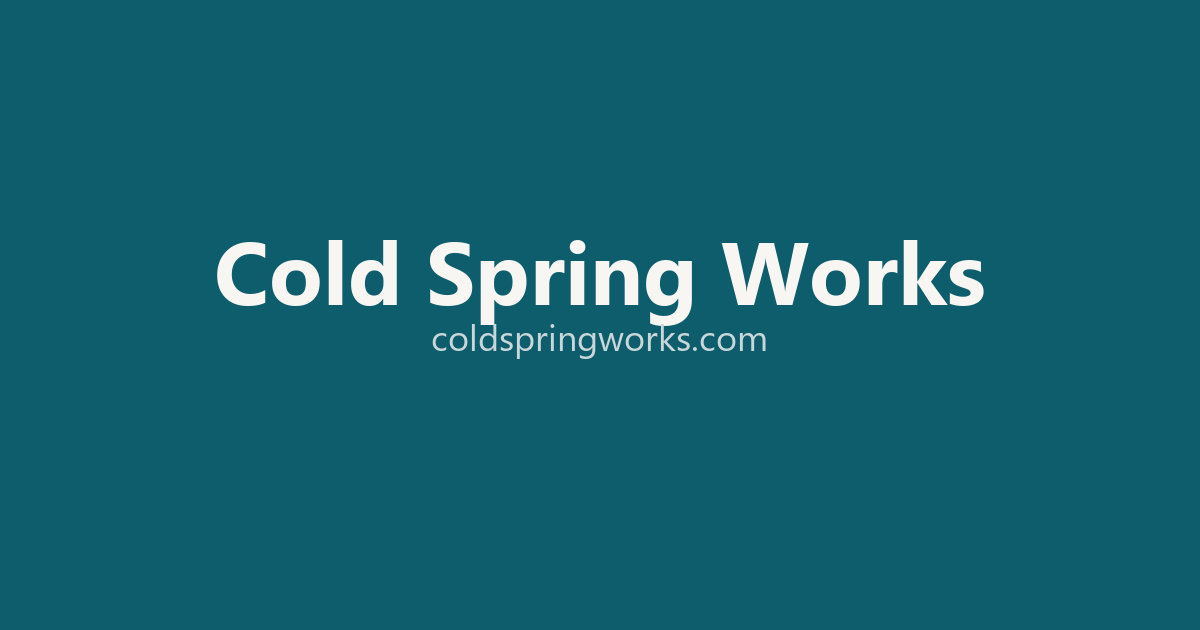
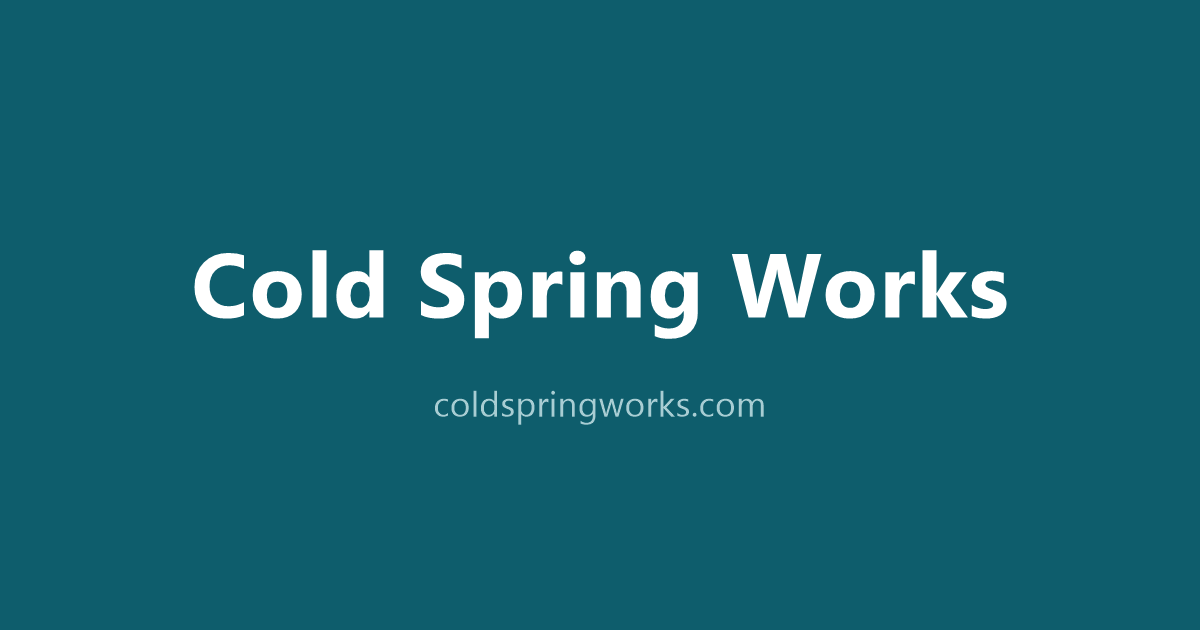
Minor text updated; og image update

Changed region(s): [[0.1542, 0.3619, 0.8633, 0.573], [0.3392, 0.6333, 0.6475, 0.6635]]

diff --git a/index.html b/index.html
@@ -248,7 +248,9 @@
             target="_blank"
             rel="noopener"
             >Chad Malmrose</a
-          >. If you email, Chad is likely the one who answers.
+          >. We work remotely — the whole teardown is done through your public
+          website and phone number, the same way a customer reaches you. If you
+          email, Chad is likely the one who answers.
         </p>
       </section>
 

diff --git a/README.md b/README.md
@@ -7,6 +7,7 @@ build step, no framework, no JavaScript, no external requests.
 
 - `index.html` — the entire site, styles inline
 - `favicon.svg` — favicon
+- `og-image.png` — link-preview image referenced by the Open Graph tags
 - `CNAME` — custom domain for GitHub Pages
 
 ## Copyright
